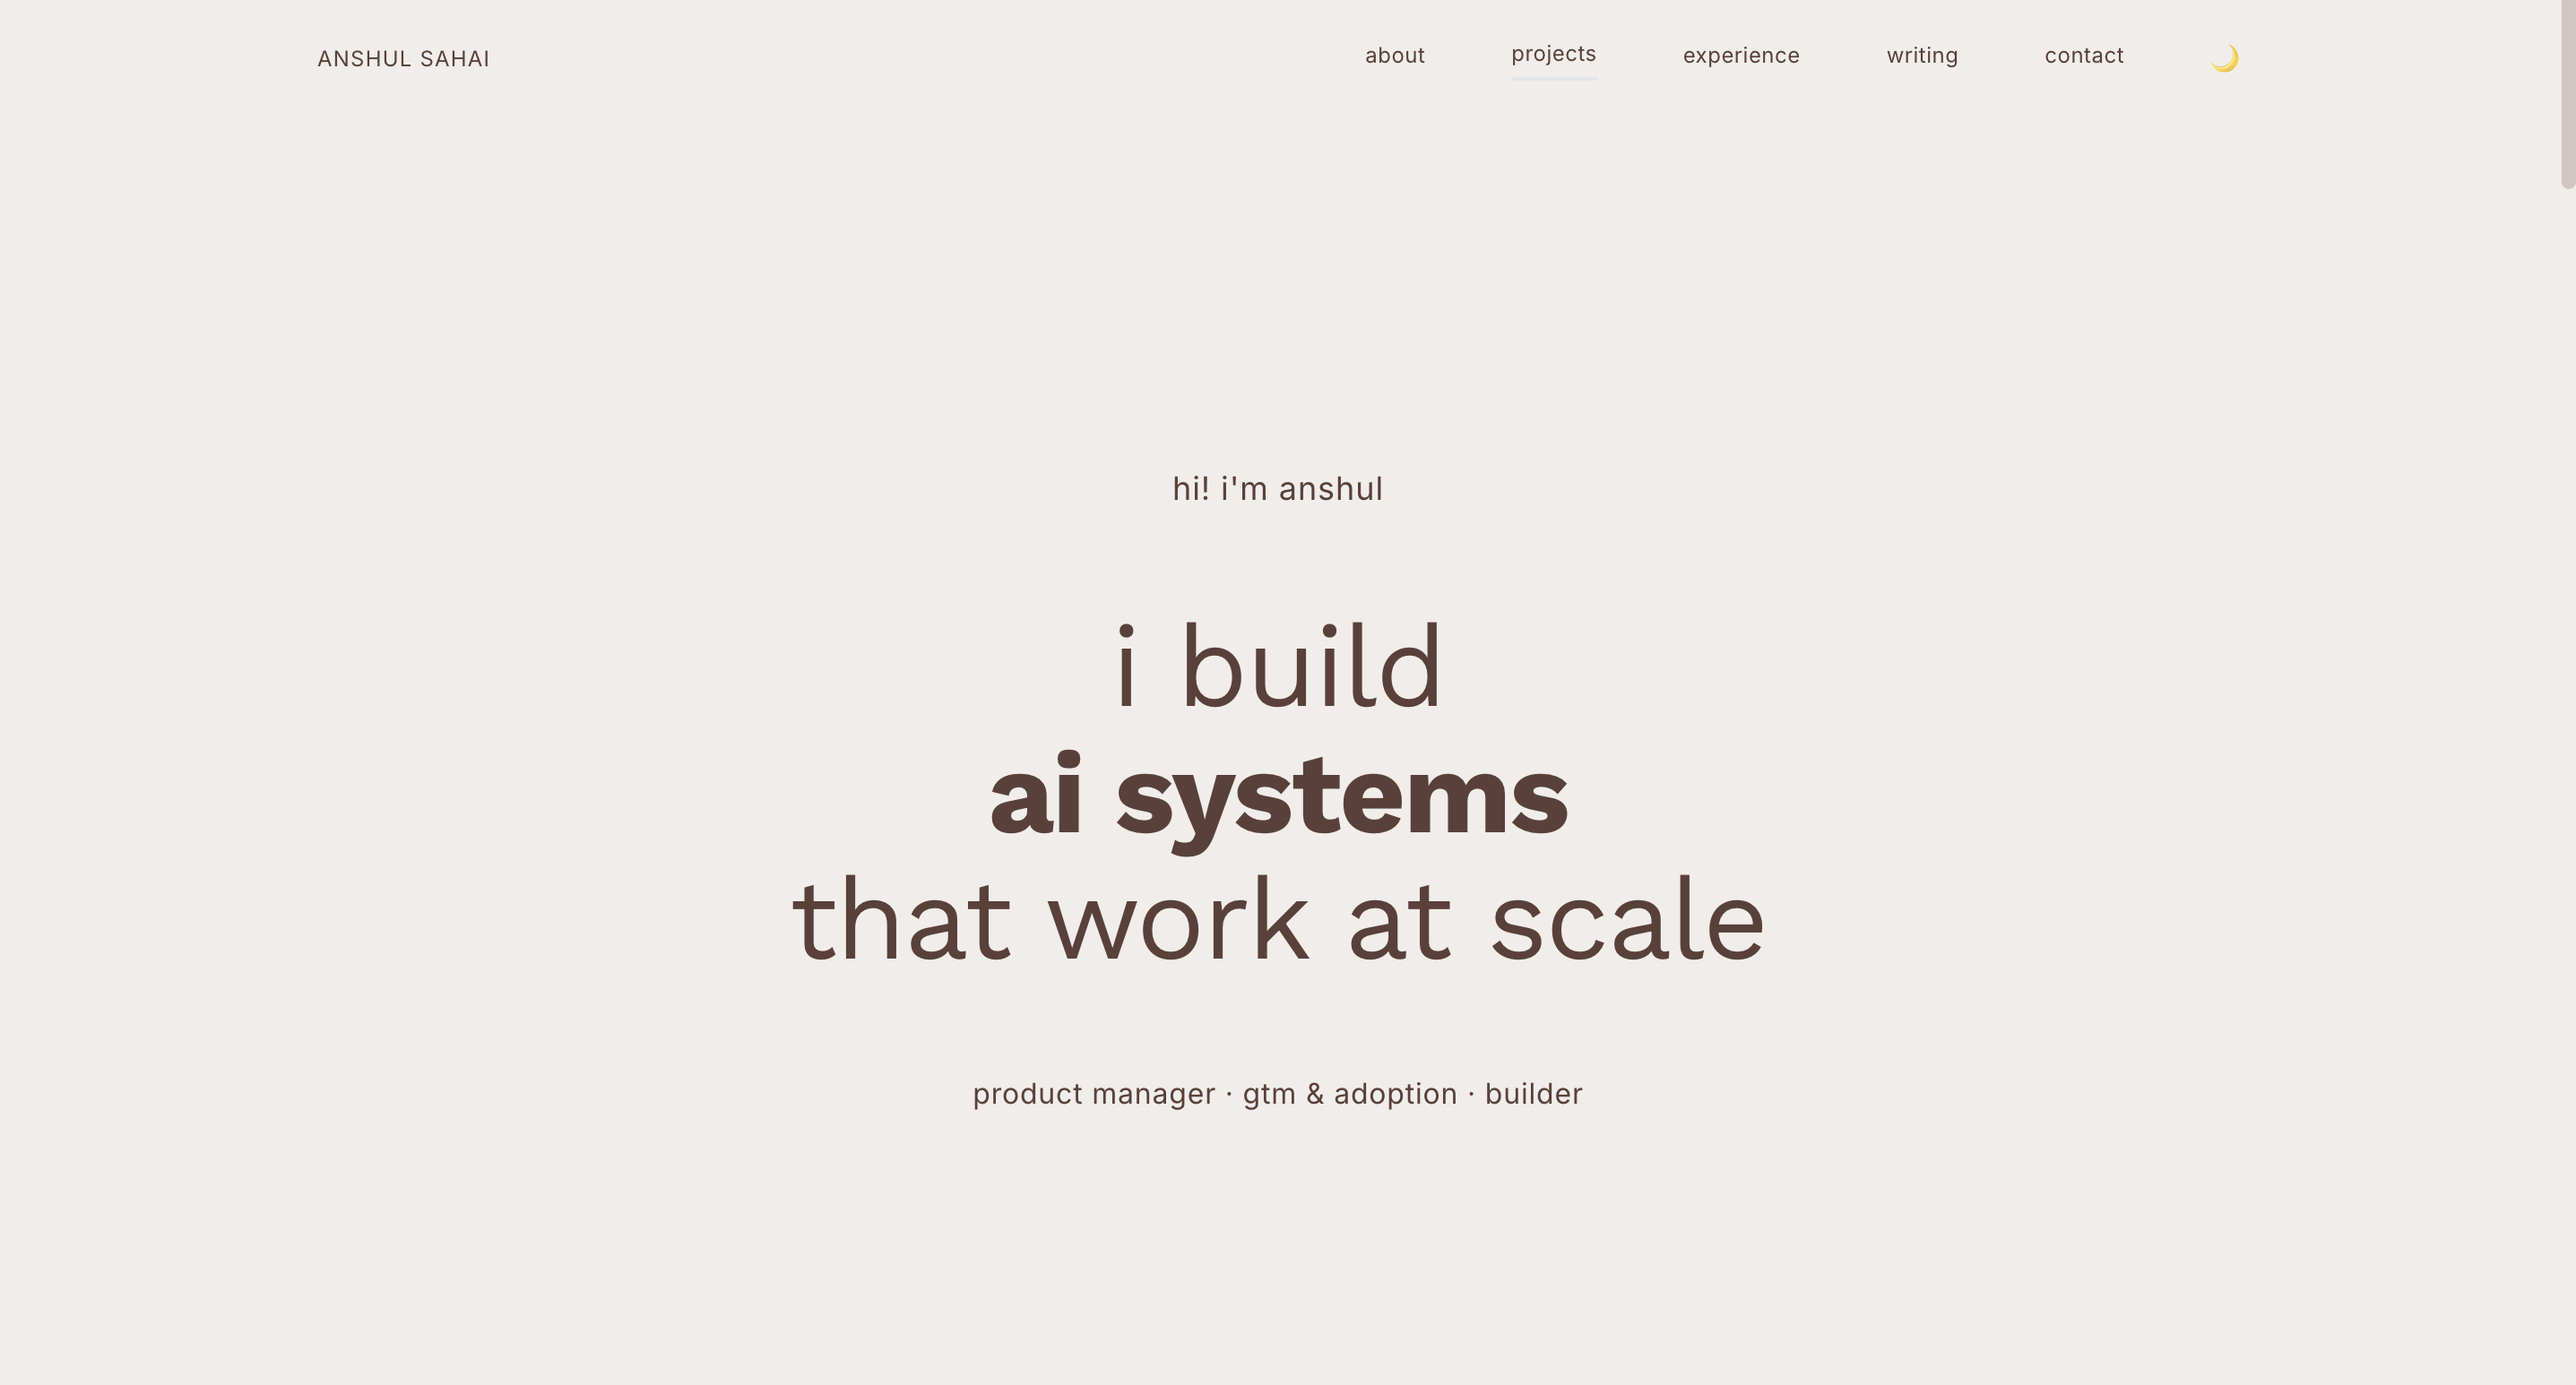
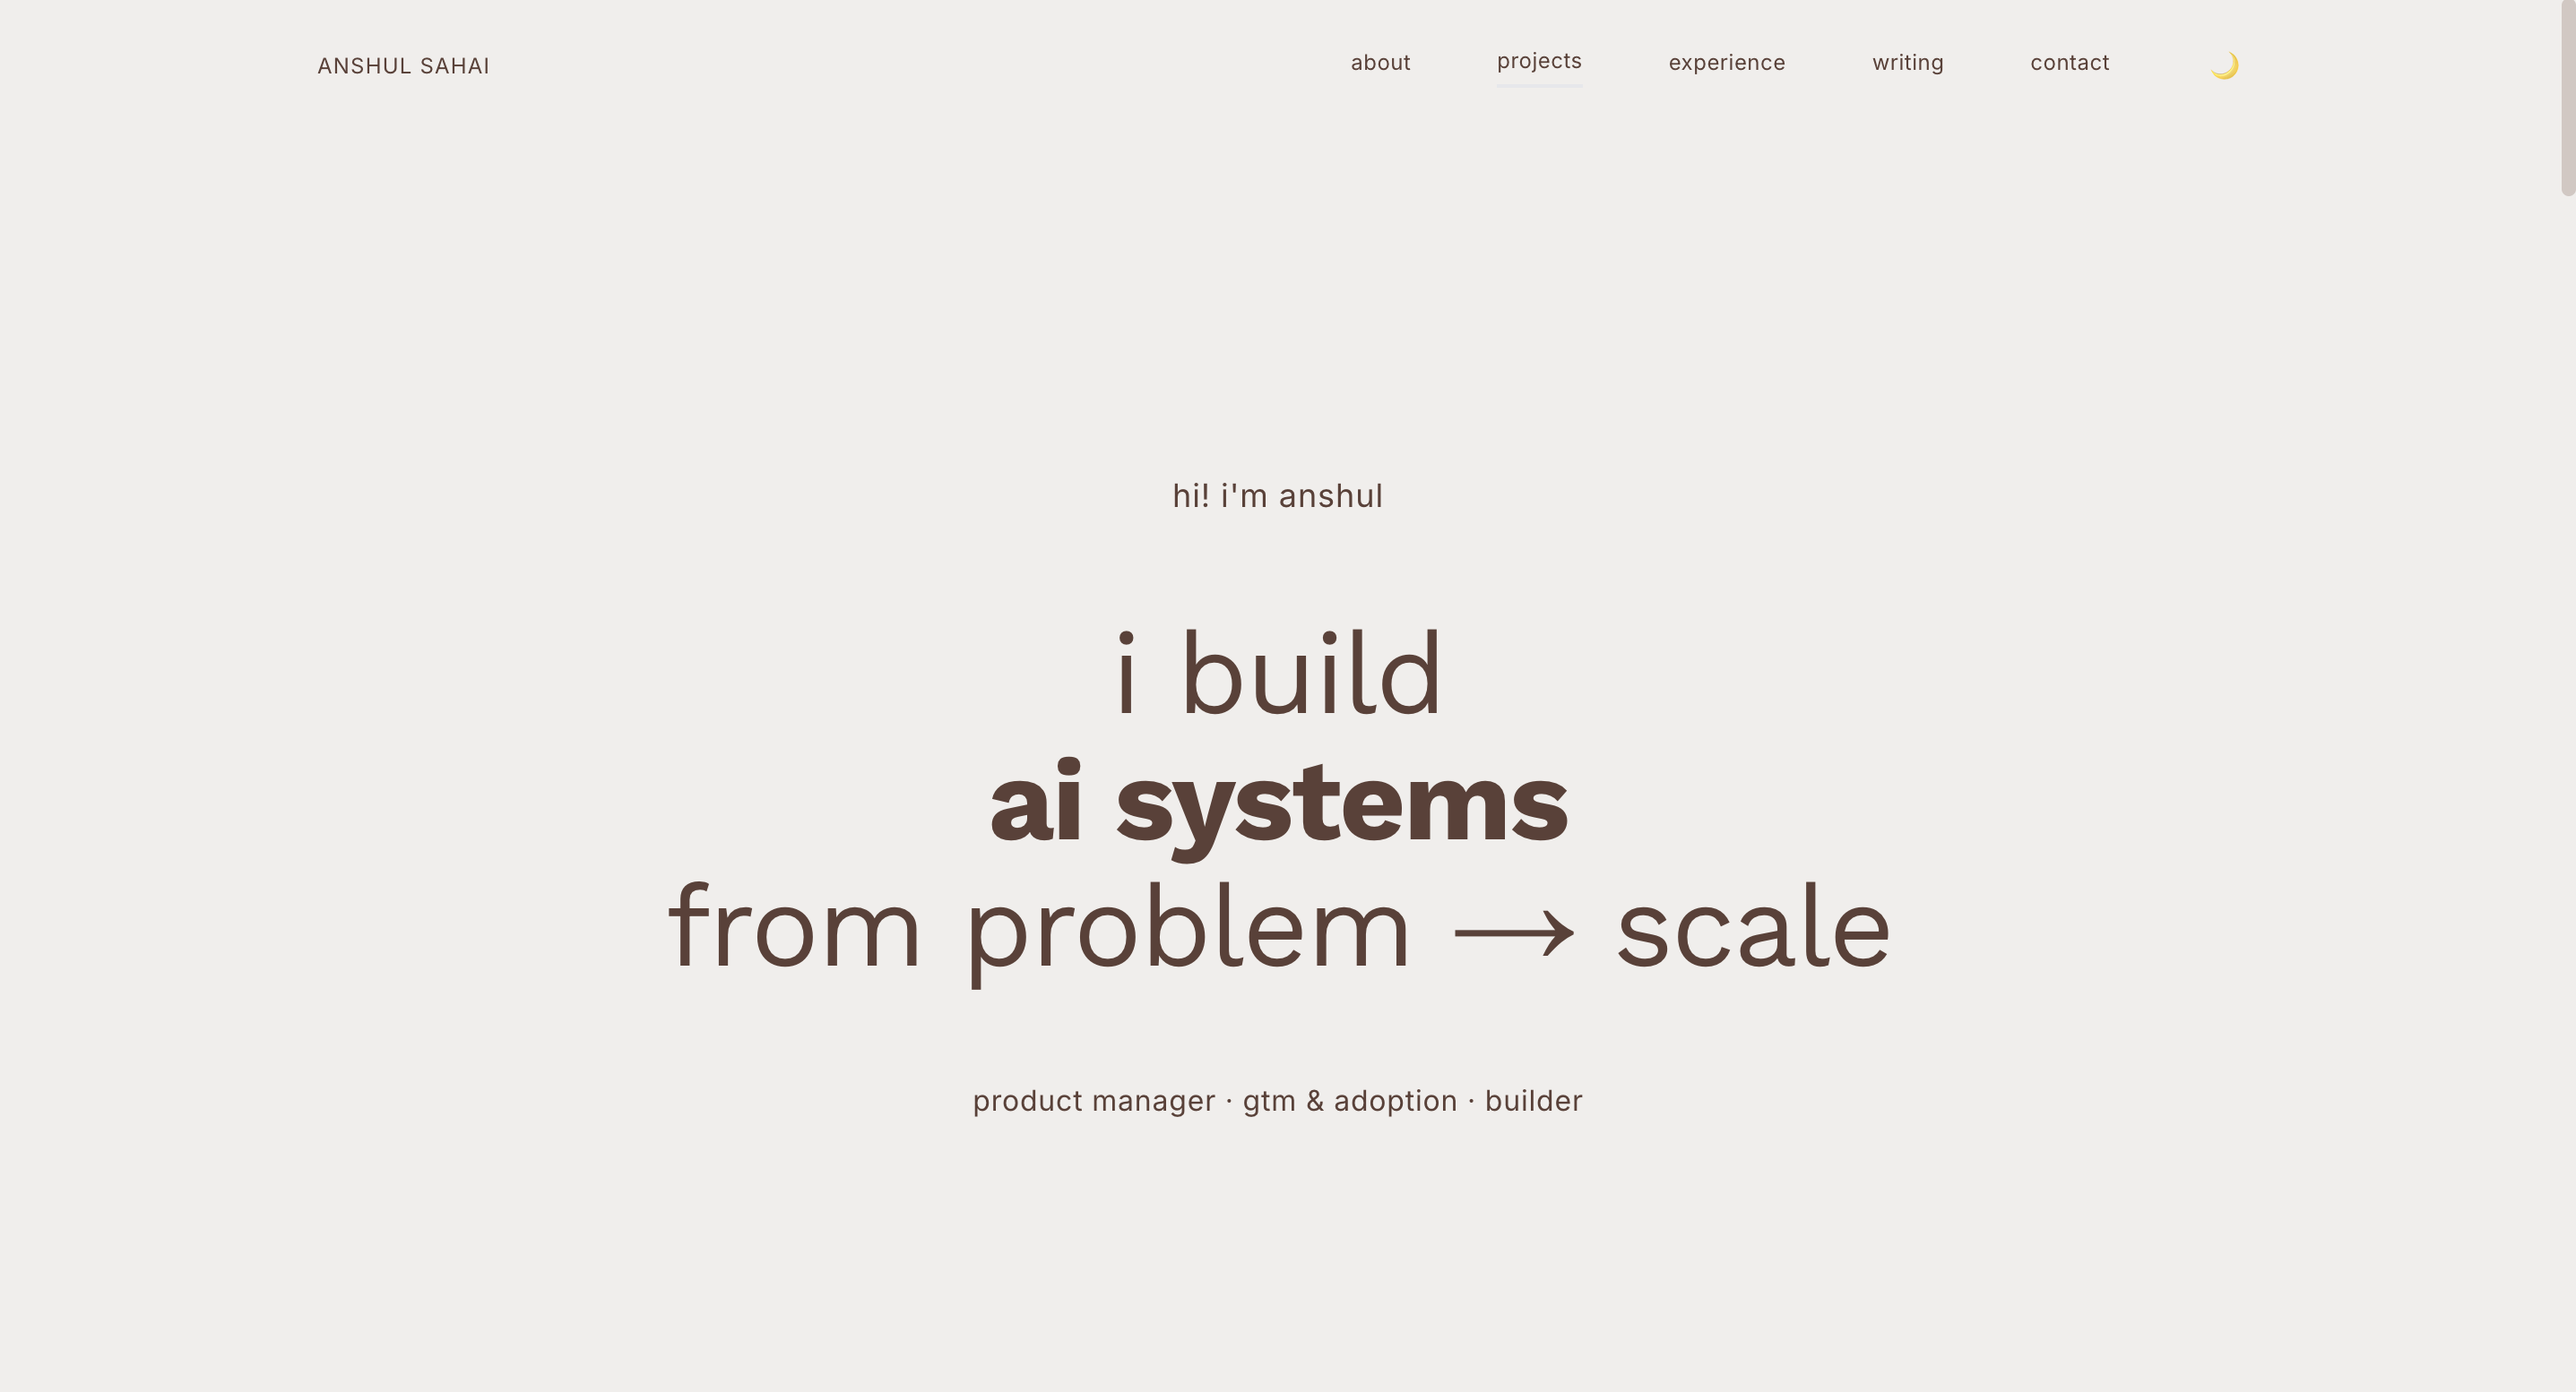
Update hero section alignment and improve mobile responsiveness across all sections

diff --git a/src/components/Hero.tsx b/src/components/Hero.tsx
@@ -1,6 +1,5 @@
 'use client'
 
-import { useState, useEffect } from 'react'
 import { motion } from 'framer-motion'
 
 /**
@@ -17,59 +16,19 @@ import { motion } from 'framer-motion'
  *   greeting (recedes)
  *   i build
  *   ai systems (natural emphasis through position + weight)
- *   that scale
+ *   from problem → scale
  *   role descriptor (recedes)
  */
 
 export function Hero() {
-  const [typewriterText, setTypewriterText] = useState('')
-  const fullText = 'problem → scale'
-  
-  useEffect(() => {
-    let currentIndex = 0
-    let isDeleting = false
-    const typingSpeed = 50 // Fast typing speed (50ms per character)
-    const deletingSpeed = 30 // Faster deleting
-    const pauseAfterComplete = 2000 // Pause before deleting
-    const pauseAfterDelete = 500 // Pause before retyping
-    const startDelay = 700 // Start after initial animations
-    
-    const startTyping = setTimeout(() => {
-      const typewriterLoop = () => {
-        if (!isDeleting && currentIndex <= fullText.length) {
-          // Typing forward
-          setTypewriterText(fullText.slice(0, currentIndex))
-          currentIndex++
-          setTimeout(typewriterLoop, typingSpeed)
-        } else if (!isDeleting && currentIndex > fullText.length) {
-          // Pause, then start deleting
-          isDeleting = true
-          setTimeout(typewriterLoop, pauseAfterComplete)
-        } else if (isDeleting && currentIndex > 0) {
-          // Deleting
-          currentIndex--
-          setTypewriterText(fullText.slice(0, currentIndex))
-          setTimeout(typewriterLoop, deletingSpeed)
-        } else if (isDeleting && currentIndex === 0) {
-          // Pause, then start typing again
-          isDeleting = false
-          setTimeout(typewriterLoop, pauseAfterDelete)
-        }
-      }
-      
-      typewriterLoop()
-    }, startDelay)
-    
-    return () => clearTimeout(startTyping)
-  }, [])
   
   return (
     <section className="relative min-h-[calc(100vh-41px)] flex flex-col items-center justify-center w-full">
       {/* Main content - centered */}
-      <div className="relative z-10 text-center max-w-prose mx-auto px-6 py-8 md:py-12">
+      <div className="relative z-10 text-center max-w-prose mx-auto px-4 sm:px-6 py-6 sm:py-8 md:py-12">
         {/* Greeting - recedes into background */}
         <motion.p
-          className="font-body text-body-lg text-muted/85 mb-6 tracking-wide"
+          className="font-body text-body sm:text-body-lg text-muted/85 mb-4 sm:mb-6 tracking-wide"
           initial={{ opacity: 0, y: 12 }}
           animate={{ opacity: 1, y: 0 }}
           transition={{ duration: 0.5, delay: 0.1 }}
@@ -79,28 +38,24 @@ export function Hero() {
         
         {/* Headline - structured with deliberate line breaks */}
         <motion.h1
-          className="font-headline text-hero text-foreground leading-[1.1] mb-6 font-light"
+          className="font-headline text-hero text-foreground leading-[1.15] sm:leading-[1.1] mb-5 sm:mb-6 font-light text-center"
           initial={{ opacity: 0, y: 12 }}
           animate={{ opacity: 1, y: 0 }}
           transition={{ duration: 0.5, delay: 0.2 }}
         >
-          i build
-          <br />
-          <span className="font-bold">ai systems</span>
-          <br />
-          from <span className="inline-block min-h-[1.2em]">
-            {typewriterText}
-            <span className="inline-block w-0.5 h-[0.9em] bg-foreground/60 ml-0.5 animate-pulse" />
-          </span>
+          <span className="block">i build</span>
+          <span className="block font-bold">ai systems</span>
+          <span className="block whitespace-nowrap relative -left-[0.78em]">from problem → scale</span>
         </motion.h1>
         
         {/* Role descriptor - secondary, muted */}
         <motion.p
-          className="font-body text-body text-muted/85 tracking-wide"
+          className="font-body text-small sm:text-body text-muted/85 tracking-wide px-4 sm:px-0"
           initial={{ opacity: 0, y: 12 }}
           animate={{ opacity: 1, y: 0 }}
           transition={{ duration: 0.5, delay: 0.3 }}
-        > product manager · gtm & adoption · builder 
+        >
+          product manager · gtm & adoption · builder 
         </motion.p>
       </div>
     </section>

diff --git a/src/components/Header.tsx b/src/components/Header.tsx
@@ -79,15 +79,20 @@ export function Header() {
               duration-300
               tracking-wider
               uppercase
+              whitespace-nowrap
             "
           >
-            Anshul Sahai
+            <span className="hidden sm:inline">Anshul Sahai</span>
+            <span className="sm:hidden">AS</span>
           </a>
           
           {/* Navigation links — secondary to content */}
-          <div className="flex items-center gap-5 md:gap-6">
+          <div className="flex items-center gap-2 sm:gap-3 md:gap-6">
             {navLinks.map((link) => {
               const isActive = activeSection === link.href
+              // Hide "about" and "experience" on mobile to prevent overcrowding
+              const hideOnMobile = link.label === 'about' || link.label === 'experience'
+              
               return (
               <a
                 key={link.href}
@@ -100,6 +105,8 @@ export function Header() {
                   duration-300 
                   font-body
                     pb-0.5
+                    whitespace-nowrap
+                    ${hideOnMobile ? 'hidden sm:inline-block' : ''}
                   `}
               >
                 {link.label}
@@ -118,6 +125,7 @@ export function Header() {
                 transition-colors 
                 duration-300 
                 disabled:opacity-50
+                ml-1
               "
               aria-label={`Switch to ${theme === 'sun' ? 'dark' : 'light'} mode`}
             >

diff --git a/src/components/Contact.tsx b/src/components/Contact.tsx
@@ -29,22 +29,22 @@ export function Contact() {
           viewport={{ once: true }}
           transition={{ duration: 0.4 }}
         >
-          working on something ambitious?
+          let's talk
         </motion.h2>
 
         <motion.p
-          className="text-body-lg text-foreground/75 mb-7 leading-relaxed"
+          className="text-body sm:text-body-lg text-foreground/75 mb-7 leading-relaxed px-4 sm:px-0"
           initial={{ opacity: 0, y: 16 }}
           whileInView={{ opacity: 1, y: 0 }}
           viewport={{ once: true }}
           transition={{ duration: 0.4, delay: 0.1 }}
         >
           I work at the intersection of AI, product, and execution.
-          If you’re building or scaling an AI product, or thinking through evaluation, or adoption - I’m happy to chat.
+          If you're building or scaling an AI product, or want to exchange notes & ideas - I'm happy to chat.
         </motion.p>
 
         <motion.div
-          className="flex flex-wrap justify-center gap-x-8 gap-y-3 text-body text-muted"
+          className="flex flex-wrap justify-center gap-x-4 sm:gap-x-8 gap-y-3 text-body text-muted px-4 sm:px-0"
           initial={{ opacity: 0, y: 16 }}
           whileInView={{ opacity: 1, y: 0 }}
           viewport={{ once: true }}

diff --git a/src/components/WritingItem.tsx b/src/components/WritingItem.tsx
@@ -13,14 +13,14 @@ export function WritingItem({ number, title, href }: WritingItemProps) {
   return (
     <Link href={href} className="block group">
       <motion.div
-        className="flex items-baseline gap-5 py-3"
+        className="flex items-baseline gap-3 sm:gap-5 py-3"
         whileHover={{ x: 4 }}
         transition={{ duration: 0.2 }}
       >
-        <span className="font-body text-small text-muted/50 group-hover:text-muted/30 transition-colors duration-200 w-8 tabular-nums">
+        <span className="font-body text-small text-muted/50 group-hover:text-muted/30 transition-colors duration-200 w-6 sm:w-8 tabular-nums flex-shrink-0">
           {number}
         </span>
-        <span className="font-headline text-large text-foreground/85 group-hover:text-foreground relative">
+        <span className="font-headline text-body-lg sm:text-large text-foreground/85 group-hover:text-foreground relative">
           {title}
           <span className="absolute bottom-0 left-0 w-0 h-px bg-accent group-hover:w-full transition-all duration-300" />
         </span>

diff --git a/src/components/CapabilityItem.tsx b/src/components/CapabilityItem.tsx
@@ -13,12 +13,12 @@ interface CapabilityItemProps {
 export function CapabilityItem({ capability }: CapabilityItemProps) {
   return (
     <motion.div
-      className="group flex items-start gap-3 py-2.5 cursor-default"
+      className="group flex items-start gap-2 sm:gap-3 py-2 sm:py-2.5 cursor-default"
       whileHover={{ x: 4 }}
       transition={{ duration: 0.2 }}
     >
-      <span className="w-1 h-1 rounded-full bg-foreground/20 group-hover:bg-accent transition-colors duration-200 mt-2.5 flex-shrink-0" />
-      <span className="font-headline text-large text-foreground/85 group-hover:text-foreground transition-colors duration-200">
+      <span className="w-1 h-1 rounded-full bg-foreground/20 group-hover:bg-accent transition-colors duration-200 mt-2 sm:mt-2.5 flex-shrink-0" />
+      <span className="font-headline text-body-lg sm:text-large text-foreground/85 group-hover:text-foreground transition-colors duration-200">
         {capability.prefix}
         <strong className="font-semibold">{capability.highlight}</strong>
         {capability.suffix}

diff --git a/src/components/Experience.tsx b/src/components/Experience.tsx
@@ -14,14 +14,14 @@ export function Experience() {
     <Section id="experience" spine width="full">
       <hr className="rule mb-5" />
       
-      <div className="flex items-baseline justify-between mb-5">
+      <div className="flex flex-col sm:flex-row sm:items-baseline sm:justify-between gap-3 sm:gap-0 mb-5">
         <h2 className="font-headline text-section text-foreground">
           experience
         </h2>
         <a
           href="/resume.pdf"
           download="Anshul_Sahai_Resume.pdf"
-          className="group text-small text-accent hover:text-accent/80 transition-colors duration-300 font-medium tracking-wide hover:underline underline-offset-4"
+          className="group text-small text-accent hover:text-accent/80 transition-colors duration-300 font-medium tracking-wide hover:underline underline-offset-4 whitespace-nowrap"
         >
           download resume{' '}
           <span className="inline-block transition-transform duration-300 group-hover:translate-y-[2px]">

diff --git a/src/components/SelectedWork.tsx b/src/components/SelectedWork.tsx
@@ -151,7 +151,7 @@ export function SelectedWork() {
                     }}
                     className="overflow-hidden"
                   >
-                    <div className="pb-6 pl-0 pr-24">
+                    <div className="pb-6 pl-0 pr-0 sm:pr-12 md:pr-24">
                       <p className="text-body text-foreground/85 mb-3 leading-relaxed">
                         {project.description}
                       </p>

diff --git a/src/components/WhatIHelpWith.tsx b/src/components/WhatIHelpWith.tsx
@@ -16,9 +16,9 @@ const capabilities = [
 export function WhatIHelpWith() {
   return (
     <Section spine>
-      <hr className="rule mb-8" />
+      <hr className="rule mb-5 sm:mb-8" />
       
-      <h2 className="font-headline text-section text-foreground mb-8">
+      <h2 className="font-headline text-section text-foreground mb-5 sm:mb-8">
         what i help with 
       </h2>
 
